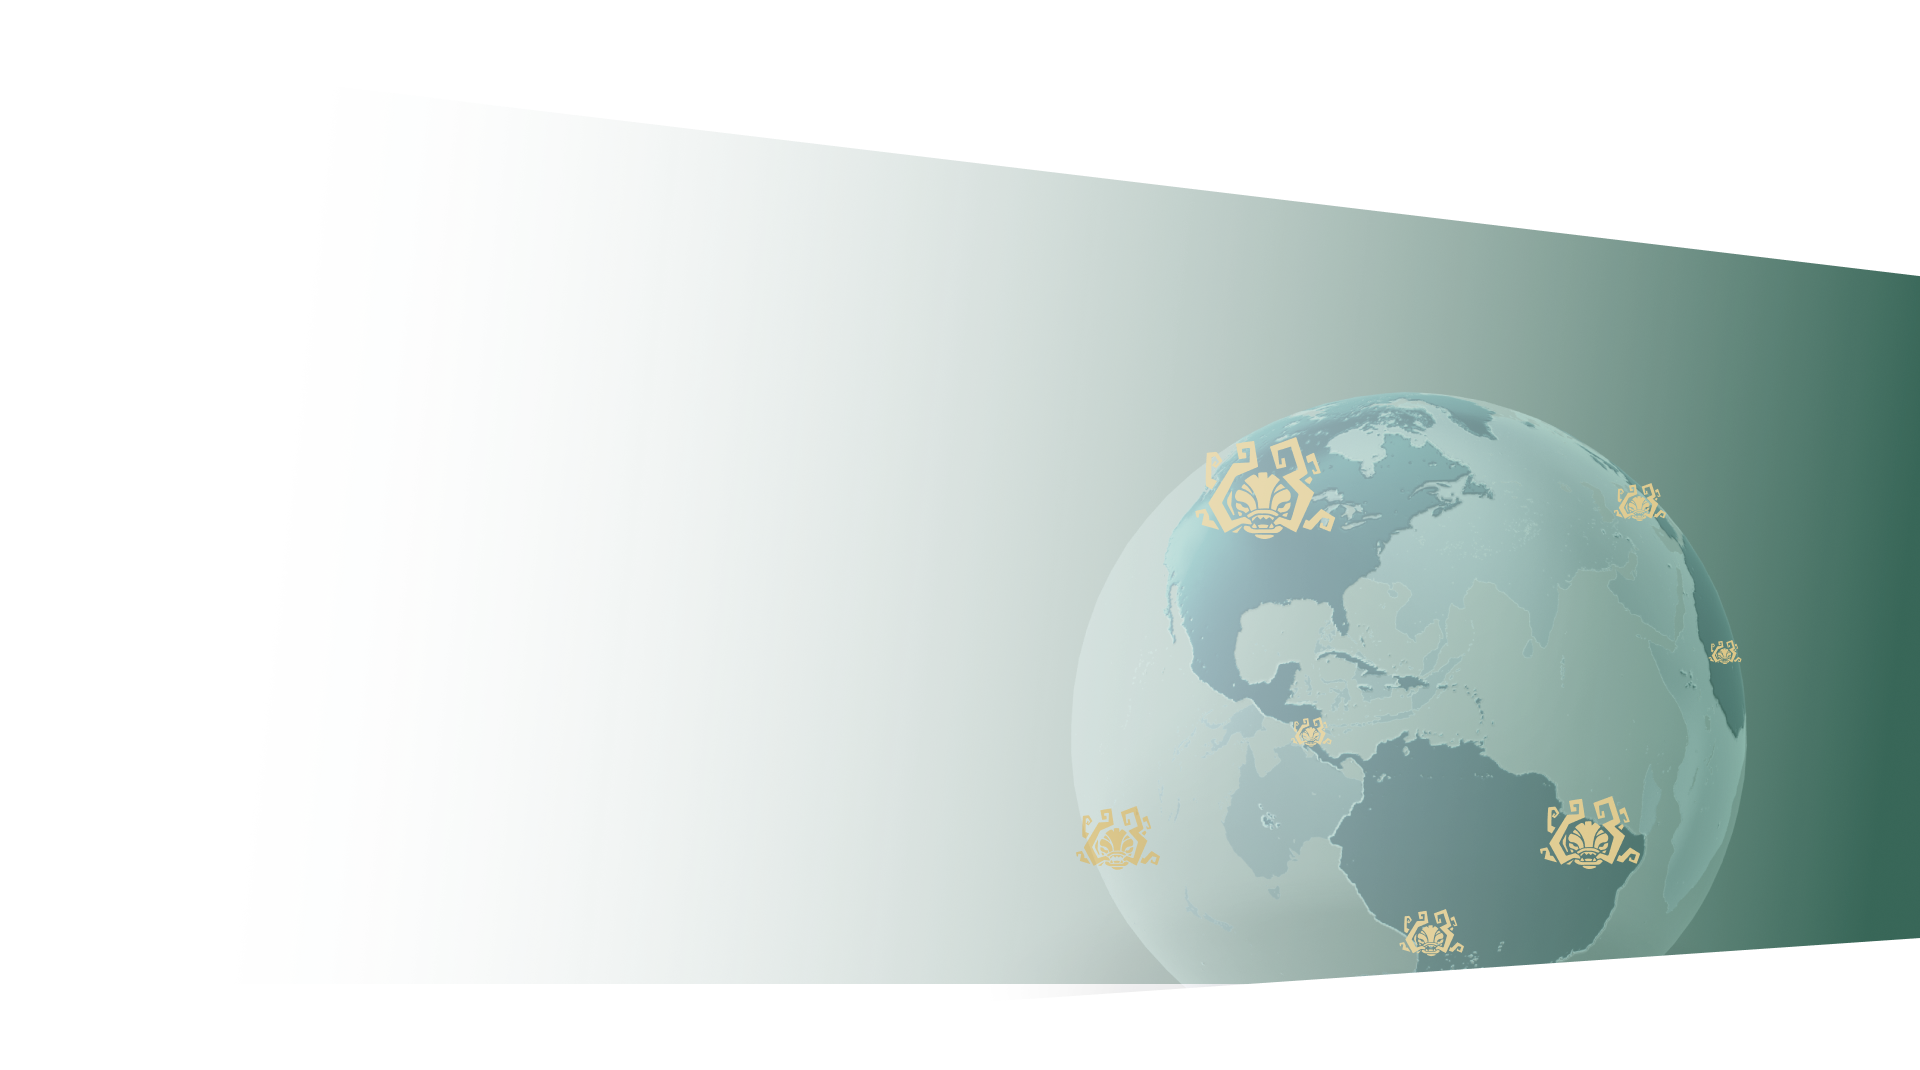
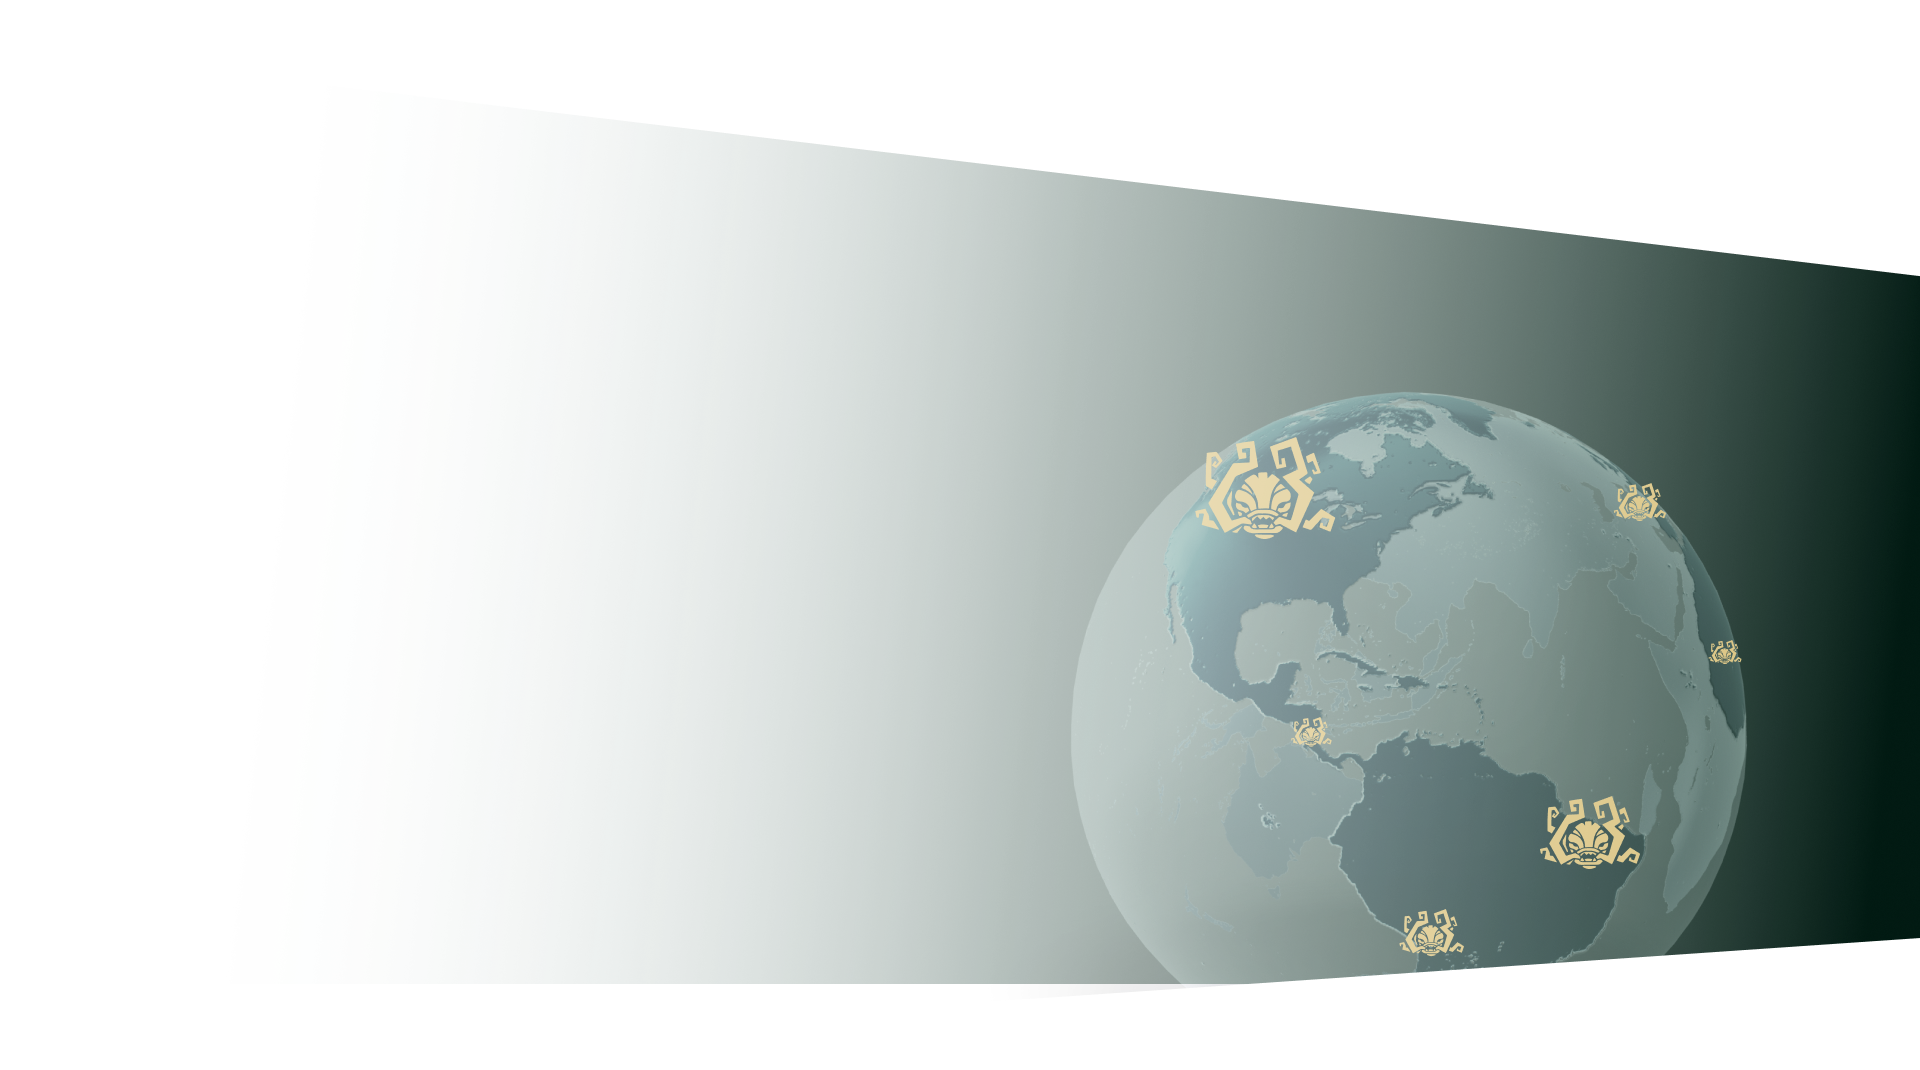
globe

Changed region(s): [[0.5, 0.1542, 1.0, 0.9252]]

diff --git a/src/components/features/HomePage/Slider/Slider.module.scss b/src/components/features/HomePage/Slider/Slider.module.scss
@@ -1,14 +1,12 @@
 .sliderBlock {
   position: relative;
-  border: yellow 2px solid;
-
   max-width: 100vw;
   min-height: 1055px;
-
 }
 
 
 .sliderWrapper {
+  border: greenyellow 1px solid;
   max-width: 100vw;
   min-height: 1055px;
   position: absolute;
@@ -20,6 +18,33 @@
     bottom: -100px;
   }
 
+
+  &:after {
+    position: absolute;
+    content: '';
+    background: url(@/assets/whyChooseUs/globe.png) center ;
+    top: calc(-885px - (1920px - (1920px - 100vw))/30);
+    height: 1070px;
+    right: -5px;
+    width: calc(100% + 5px);
+    mix-blend-mode: luminosity;
+    transform: rotate(.4deg);
+
+    @media (max-width: 1000px) {
+      background: url(@/assets/whyChooseUs/globe.png) -800px;
+      top: -897px;
+    }
+
+    @media (max-width: 744px) {
+      background: url(@/assets/whyChooseUs/globe.png) -980px;
+      top: -886px;
+    }
+
+    @media (max-width: 550px) {
+      background: url(@/assets/whyChooseUs/globe.png) -1100px;
+      top: -886px;
+    }
+  }
 }
 
 .bgLeftBottom {
@@ -42,17 +67,22 @@
   background: url(@/assets/whyChooseUs/right-bottom-bg7.png) no-repeat;
 }
 
-.bgBottomSVG {
+.svgWrapper {
+  width: 100%;
+  height: 950px;
   z-index: 1;
   position: absolute;
   top: 0;
   left: 0;
   right: 0;
-  width: 100%;
-  height: auto;
+  overflow: hidden;
+}
+
+.bgBottomSVG {
   fill: #58796b;
   mix-blend-mode: color-dodge;
   opacity: .3;
+  height: 955px;
 
   @media (max-width: 1320px) {
     height: 955px;
@@ -62,6 +92,7 @@
 
 .title {
   position: relative;
+  z-index: 20;
   font-size: 60px;
   font-weight: 900;
   letter-spacing: 3px;
@@ -69,19 +100,28 @@
   margin-top: 140px;
 
   @media (max-width: 1320px) {
-    margin-top: 80px;
+    margin-top: 180px;
     font-size: 48px;
+  }
+
+  @media (max-width: 744px) {
+    font-size: 40px;
   }
 
 }
 
 .subtitle {
   position: relative;
+  z-index: 20;
   color: #D9C17B;
   font-size: 30px;
   font-weight: 900;
   letter-spacing: 3px;
   text-transform: uppercase;
   margin-bottom: 48px;
+
+  @media (max-width: 744px) {
+    font-size: 24px;
+  }
 }
 

diff --git a/src/components/features/HomePage/Slider/Slider.jsx b/src/components/features/HomePage/Slider/Slider.jsx
@@ -9,13 +9,18 @@ const Slider = () => {
         <div className={s.bgRightBottom}></div>
         <div className={s.bgLeftBottom}></div>
 
-        <svg className={s.bgBottomSVG} xmlns="http://www.w3.org/2000/svg"
-             stroke="#101614" strokeWidth="3"
-             viewBox="0 0 1920 950" fill="none">
-          <g>
-            <path d="M0 117.5L1920 0V950L384.5 762.5L0 950V117.5Z"/>
-          </g>
-        </svg>
+        <div className={s.svgWrapper}>
+          <svg className={s.bgBottomSVG} xmlns="http://www.w3.org/2000/svg"
+               viewBox="0 0 1920 950" fill="none">
+            <g>
+              <path d="M0 117.5L1920 0V950L384.5 762.5L0 950V117.5Z"/>
+            </g>
+          </svg>
+        </div>
+
+        <div className={s.swiper}>
+          swiper
+        </div>
 
 
         <div className='container'>

diff --git a/src/components/layout/Header/Header.jsx b/src/components/layout/Header/Header.jsx
@@ -9,12 +9,13 @@ const Header = () => {
       <div className="container">
         <nav className={s.mainNav}>
           <ul className={s.navList}>
+            <span className={s.logoBg}></span>
             <li><Link to='boosting'>Boosting</Link></li>
             <li className={s.secondItem}><Link to='coaching'>Coaching</Link></li>
+            <li><Link to="/"><img className={s.headerLogo} src={logo} alt="logo"/></Link> </li>
             <li><Link to='faq'>FAQ</Link></li>
             <li><Link to='contact'>Contact us</Link></li>
-            <span className={s.logoBg}></span>
-            <li><Link to="/"><img className={s.headerLogo} src={logo} alt="logo"/></Link> </li>
+
           </ul>
         </nav>
       </div>

diff --git a/src/components/features/HomePage/WhyChooseUs/WhyChooseUs.module.scss b/src/components/features/HomePage/WhyChooseUs/WhyChooseUs.module.scss
@@ -1,13 +1,11 @@
 .whySection {
+  overflow: hidden ;
   margin-top: -100px;
   position: relative;
   z-index: 1;
-
   background: url(@/assets/whyChooseUs/top-bg.png) top left no-repeat;
-
   background-blend-mode: normal, normal, normal, color-dodge, luminosity;
   background-size: auto, auto, auto, contain;
-
   min-height: 3000px;
 }
 
@@ -18,6 +16,10 @@
   line-height: normal;
   letter-spacing: 3px;
   margin-bottom: 16px;
+
+  @media (max-width: 744px) {
+    font-size: 40px;
+  }
 }
 
 .subtitle {
@@ -27,6 +29,10 @@
   line-height: normal;
   letter-spacing: 3px;
   text-transform: uppercase;
+
+  @media (max-width: 744px) {
+    font-size: 24px;
+  }
 }
 
 .reachText {

diff --git a/src/components/features/HomePage/Worldwide/Worldwide.module.scss b/src/components/features/HomePage/Worldwide/Worldwide.module.scss
@@ -2,10 +2,15 @@
   max-width: 623px;
   margin-top: 304px;
   margin-bottom: 187px;
+  position: relative;
+  z-index: 1;
 
   @media (max-width: 1320px) {
     margin-top: 264px;
-    //margin-bottom: 687px;
+  }
+
+  @media (max-width: 1000px) {
+    margin-bottom: 412px;
   }
 }
 
@@ -18,6 +23,10 @@
   @media (max-width: 1320px) {
     font-size: 48px;
   }
+
+  @media (max-width: 744px) {
+    font-size: 40px;
+  }
 }
 
 .subtitle {
@@ -27,6 +36,9 @@
   letter-spacing: 3px;
   text-transform: uppercase;
   margin-bottom: 75px;
+  @media (max-width: 744px) {
+    font-size: 24px;
+  }
 
 }
 

diff --git a/src/components/features/HomePage/Hero/Hero.module.scss b/src/components/features/HomePage/Hero/Hero.module.scss
@@ -23,12 +23,21 @@
     max-width: 477px;
     padding-top: 212px;
   }
+
+  @media (max-width: 744px) {
+    font-size: 50px;
+    max-width: unset;
+    padding-top: 158px;
+  }
 }
 
 .headerSmall {
   font-size: 90px;
   @media (max-width: 1320px) {
     font-size: 60px;
+  }
+  @media (max-width: 744px) {
+    font-size: 40px;
   }
 }
 
@@ -42,6 +51,11 @@
   letter-spacing: 3px;
   text-transform: uppercase;
   margin-top: 24px;
+
+  @media (max-width: 744px) {
+    font-size: 30px;
+    padding-inline: 30px;
+  }
 }
 
 .callToAction {

diff --git a/src/components/ui/CallToActionButtons/CallToActionButtons.module.scss b/src/components/ui/CallToActionButtons/CallToActionButtons.module.scss
@@ -2,6 +2,13 @@
   display: flex;
   max-width: 511px;
   justify-content: space-between;
+
+  @media (max-width: 744px) {
+    //flex-wrap: wrap;
+    //justify-content: center;
+    flex-direction: column;
+    align-items: center;
+  }
 }
 
 .boostingBtn {
@@ -13,6 +20,12 @@
   box-shadow: 0px 4px 4px 0px rgba(0, 0, 0, 0.25);
   color: #41330B;
   text-transform: uppercase;
+
+  @media (max-width: 744px) {
+    margin-bottom: 32px;
+
+  }
+
 }
 
 .coachingBtn {

diff --git a/src/components/layout/Header/Header.module.scss b/src/components/layout/Header/Header.module.scss
@@ -21,6 +21,11 @@
 .mainNav {
   padding-inline: 76px;
 
+  @media (max-width: 1000px) {
+    padding-inline: 0;
+  }
+
+
   li {
     text-transform: uppercase;
   }
@@ -40,6 +45,10 @@
   flex-grow: 1;
   justify-content: space-between;
   position: relative;
+
+  @media (max-width: 744px) {
+display: none;
+  }
 }
 
 .headerLogo {

diff --git a/src/components/features/HomePage/Worldwide/Worldwide.jsx b/src/components/features/HomePage/Worldwide/Worldwide.jsx
@@ -6,7 +6,6 @@ const Worldwide = () => {
       <h1 className={s.title}>Operated Worldwide</h1>
       <p className={s.subtitle}>Adapt to your needs</p>
       <p className={s.text}>We operate all over the world, but we adapt to your current location using a secure VPN connection.</p>
-
     </div>
   );
 };
